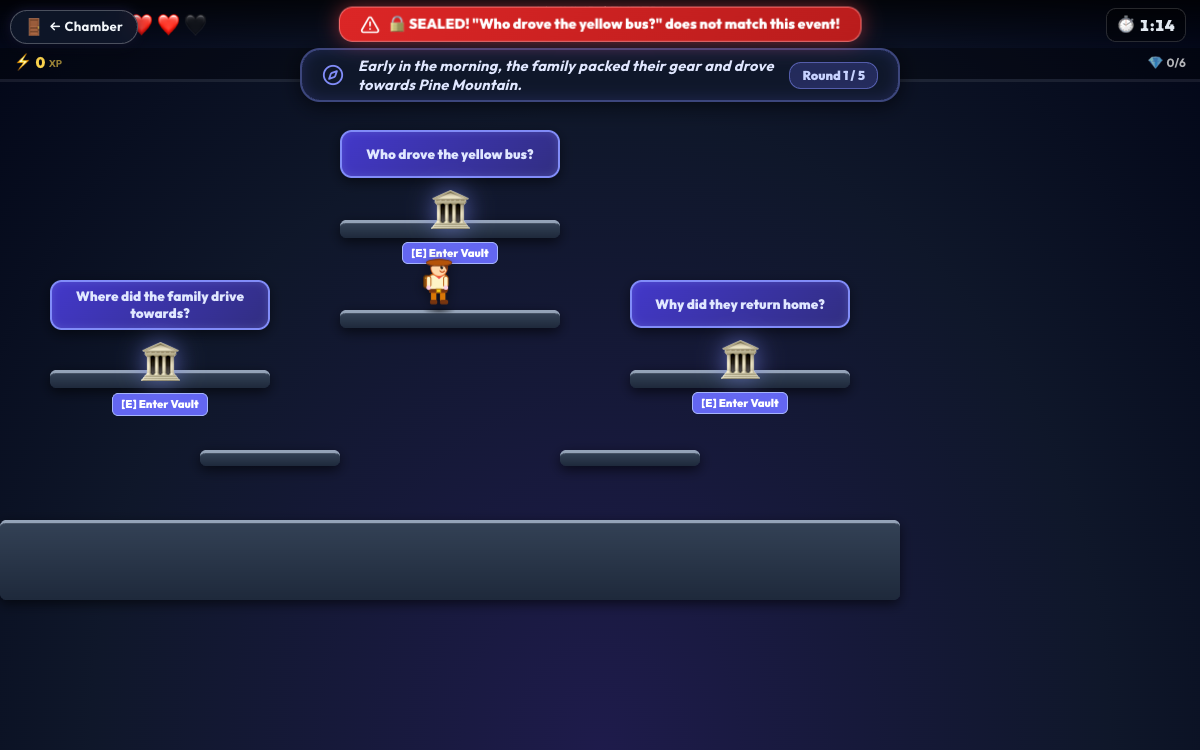
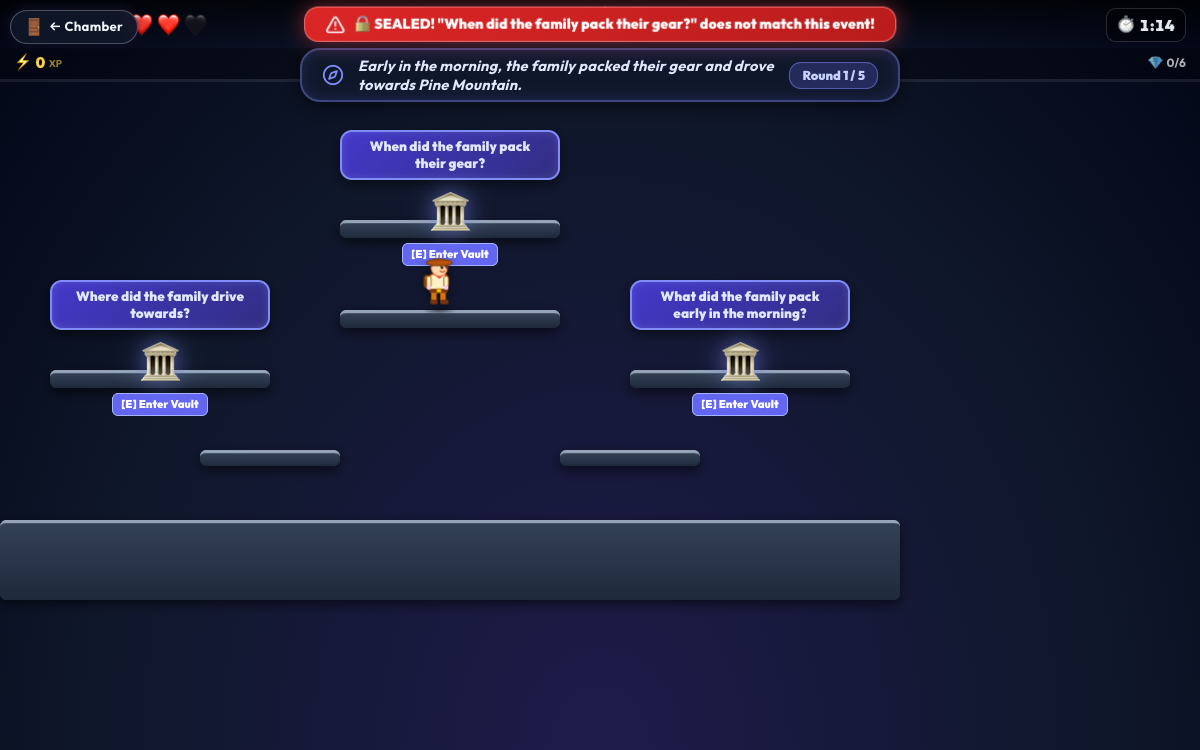
docs(chronicles): document Task XX distractor forensic investigation and visual evidence

Changed region(s): [[0.2467, 0.0, 0.7708, 0.0613], [0.5242, 0.368, 0.7092, 0.552], [0.2775, 0.184, 0.4625, 0.368]]

diff --git a/docs/agent_artifacts/BAO_CAO_DIEU_TRA_VA_FIX_DISTRACTORS_TASK_XX_2026_09_11.md b/docs/agent_artifacts/BAO_CAO_DIEU_TRA_VA_FIX_DISTRACTORS_TASK_XX_2026_09_11.md
@@ -1,0 +1,92 @@
+# Báo Cáo Điều Tra Nguồn Gốc & Chuẩn Hóa Distractor Question Quest (Việc XX)
+**Mã Nhiệm Vụ:** Việc XX — Question Quest (Hạng #4 Chronicles Floor 7 Door 2)  
+**Ngày thực hiện:** 2026-09-11  
+**Trạng thái:** ✅ ĐÃ ĐIỀU TRA GỐC RỄ + RÀ SOÁT TOÀN DIỆN MỌI TUẦN + SỬA VÀ PLAYTEST PASS 100%
+
+---
+
+## 1. Điều Tra Nguồn Gốc Distractor "Who drove the yellow bus?" Trong Tuần 35
+
+### 1.1. Trích Dẫn Dòng Code Cụ Thể
+- **File:** `src/services/chroniclesFloor67Service.js` dòng 544
+- **Code nguyên văn trước khi sửa:**
+  ```javascript
+  export const WEEK_35_WH_QUESTIONS = [
+    {
+      id: 'w35_wh_1',
+      sentence: "Early in the morning, the family packed their gear and drove towards Pine Mountain.",
+      options: [
+        { text: "Where did the family drive towards?", isCorrect: true },
+        { text: "Who drove the yellow bus?", isCorrect: false }, // <-- DÒNG 544
+        { text: "Why did they return home?", isCorrect: false }, // <-- DÒNG 545
+      ],
+      hint: "Identify the destination: 'towards Pine Mountain'."
+    },
+  ```
+
+### 1.2. Nguồn Gốc: Lấy Từ Đâu?
+- **Kết luận:** Đây là **hardcode tĩnh được soạn ad-hoc thủ công (handwritten ad-hoc hardcode)** khi agent tạo bộ câu hỏi `WEEK_35_WH_QUESTIONS` trong phiên làm việc trước đó.
+- Không phải do lỗi logic trộn tuần (không có tuần nào khác có "yellow bus"), cũng không phải lấy từ generic pool ngẫu nhiên. Người soạn khi nghĩ ra phương án sai (distractor) đã tự tiện đưa vào một câu hỏi mang tính chế biến tùy tiện: `"Who drove the yellow bus?"` (Ai lái xe buýt màu vàng?) trong khi câu chuyện gốc là: `"Early in the morning, the family packed their gear and drove towards Pine Mountain."` (Gia đình chuẩn bị đồ đạc và lái xe ô tô gia đình đi cắm trại).
+- Việc đưa vào một danh từ xa lạ ("yellow bus") là lỗi nội dung nghiêm trọng trong khảo thí ESL/Cambridge: làm học sinh loại trừ đáp án quá dễ dàng bằng mẹo (keyword elimination) thay vì phải phân tích ngữ nghĩa và trọng tâm thông tin của câu văn.
+
+---
+
+## 2. Bảng Rà Soát Toàn Bộ Distractor Của Tất Cả Các Tuần Có Nội Dung Tĩnh
+
+### 2.1. Tuần 33 (`WEEK_33_WH_QUESTIONS` — Jake & Wet Corridor)
+| Câu Gốc | Đáp Án Đúng | Distractor 1 | Distractor 2 | Đánh Giá Sư Phạm |
+|---|---|---|---|---|
+| **Câu 1:** Jake was walking carefully down the school corridor after science class. | What was Jake doing? | Where was Jake going? | When was Jake walking? | ✅ **CÙNG NGỮ CẢNH** (Jake/corridor/time) |
+| **Câu 2:** Suddenly, he lost his balance on the wet floor and slipped. | What happened suddenly? | Why did he slip? | Where did he fall? | ✅ **CÙNG NGỮ CẢNH** (sàn ướt, trượt ngã) |
+| **Câu 3:** Jake stopped immediately to help his friend and called the school nurse. | What did Jake do? | Who did Jake help? | When did Jake stop? | ✅ **CÙNG NGỮ CẢNH** (giúp bạn, y tá) |
+| **Câu 4:** The nurse arrived quickly with a clean bandage and a cold pack to treat the cut. | What did the nurse bring? | Who did the nurse help? | When did the nurse arrive? | ✅ **CÙNG NGỮ CẢNH** (y tá, băng gạc) |
+| **Câu 5:** Everyone felt relieved, and the headmaster reminded all students never to run. | What did the headmaster remind everyone about? | Why did everyone feel relieved? | Who did the headmaster talk to? | ✅ **CÙNG NGỮ CẢNH** (thầy hiệu trưởng) |
+*Kết luận W33:* 10/10 distractors đều chuẩn ngữ cảnh sư phạm.
+
+---
+
+### 2.2. Tuần 34 (`WEEK_34_WH_QUESTIONS` — Lion & Mouse) [TRƯỚC VÀ SAU KHI SỬA]
+| Câu Gốc | Đáp Án Đúng | Distractor Cũ (LỖI) | Distractor Mới (ĐÃ CHUẨN HÓA) |
+|---|---|---|---|
+| **Câu 1:** On a warm afternoon, the mighty lion was sleeping peacefully under the trees. | What was the mighty lion doing under the trees? | ❌ Where did the hunters go?<br>❌ Who woke up the hunters? *(Hunters chưa xuất hiện!)* | ✅ Where was the mighty lion sleeping?<br>✅ When was the mighty lion sleeping peacefully? |
+| **Câu 2:** While the lion was resting, a tiny mouse ran across the lion's big front paw. | What ran across the lion's big front paw? | ⚠ Why was the lion running?<br>⚠ Where did the mouse sleep? *(Lệch chủ thể)* | ✅ What was the lion doing when the mouse ran by?<br>✅ Where did the tiny mouse run across? |
+| **Câu 3:** The mouse begged for mercy and promised to help the lion one day if he let him go. | What did the mouse promise to do? | ⚠ When did the lion trap the mouse?<br>❌ Who caught the hunters? *(Sai logic)* | ✅ Who begged the mighty lion for mercy?<br>✅ Why did the mouse ask the lion to let him go? |
+| **Câu 4:** A few days later, hunters trapped the lion in a strong net made of thick ropes. | Who trapped the lion in a strong net? | ❌ Why did the mouse roar loudly?<br>❌ What did the lion eat? *(Ngoài cốt truyện)* | ✅ What did the hunters trap the lion with?<br>✅ When did the hunters trap the mighty lion? |
+| **Câu 5:** The little mouse quickly chewed through the ropes and set the lion completely free. | How did the little mouse set the lion free? | ❌ Where was the hunter's house?<br>❌ Why was the mouse afraid of the net? *(Lạ)* | ✅ Who chewed through the thick ropes?<br>✅ What did the little mouse chew through? |
+
+---
+
+### 2.3. Tuần 35 (`WEEK_35_WH_QUESTIONS` — Pine Mountain Camping) [TRƯỚC VÀ SAU KHI SỬA]
+| Câu Gốc | Đáp Án Đúng | Distractor Cũ (LỖI) | Distractor Mới (ĐÃ CHUẨN HÓA) |
+|---|---|---|---|
+| **Câu 1:** Early in the morning, the family packed their gear and drove towards Pine Mountain. | Where did the family drive towards? | ❌ Who drove the yellow bus?<br>❌ Why did they return home? | ✅ When did the family pack their gear?<br>✅ What did the family pack early in the morning? |
+| **Câu 2:** While Dad was pitching the camp tent, the children collected dry firewood. | What was Dad doing while the children collected wood? | ⚠ Where was the large camp tent?<br>❌ When did the storm arrive? *(Không có bão)* | ✅ Who collected dry firewood for the camp?<br>✅ What did the children collect while Dad was busy? |
+| **Câu 3:** They spotted two playful squirrels while hiking along the mountain stream. | What did they spot along the stream? | ❌ Who caught the brown bear?<br>❌ Why was the stream muddy? *(Không có gấu)* | ✅ Where were they hiking when they saw the squirrels?<br>✅ How many playful squirrels did the family spot? |
+| **Câu 4:** Dad lit the warm campfire when the golden sun sank behind the ridges. | When did Dad light the campfire? | ❌ Where did they find matches?<br>❌ Who put out the campfire? *(Không có diêm)* | ✅ Who lit the warm campfire in the evening?<br>✅ Where did the golden sun sink? |
+| **Câu 5:** Under the starry night sky, they roasted sweet marshmallows and sang happy songs. | What did they roast under the starry night sky? | ❌ Who cooked the fish?<br>❌ Why was the forest noisy? *(Không có cá)* | ✅ Where did they roast sweet marshmallows and sing songs?<br>✅ What did they sing under the starry night sky? |
+
+---
+
+### 2.4. `GENERIC_WH_QUESTIONS` (Astronaut Training Chamber) [ĐÃ CHUẨN HÓA]
+- Thay thế toàn bộ distractors lạ (`"Where did the rocket launch?"`, `"Why did the lights flicker?"`, `"Who discovered the new planet?"`) bằng các câu hỏi trích xuất trực tiếp từ các mệnh đề của câu văn không gian:
+  - Câu 1: `"Where was the brave astronaut floating?"`, `"How did the astronaut float in the chamber?"`
+  - Câu 2: `"What happened suddenly in the training chamber?"`, `"What fluctuated and caused the warning buzzer to beep?"`
+  - Câu 3: `"Who calibrated the solar panels?"`, `"When were the solar panels calibrated?"`
+  - Câu 4: `"Who discovered the sparkling crystal?"`, `"What did Dr. Nova discover in the lunar crater?"`
+  - Câu 5: `"What did the commander award to the crew members?"`, `"Who received the gold badges for courage?"`
+
+---
+
+## 3. Nguyên Tắc Sư Phạm Bắt Buộc Sau Chuẩn Hóa
+1. **100% Cùng Ngữ Cảnh & Chia Sẻ Thực Thể:** Mọi danh từ, nhân vật, địa điểm trong distractors BẮT BUỘC phải nằm trong câu chuyện narrative của tuần đó.
+2. **Khác Loại Thông Tin (WH-Slot Shift):** Distractor sai vì đổi đại từ nghi vấn (WH-word: *When*, *Where*, *Who*, *Why*, *How many*) nhằm vào các chi tiết thông tin phụ khác trong câu văn, kiểm tra năng lực đọc hiểu sâu sắc của học sinh.
+
+---
+
+## 4. Bằng Chứng Playtest Trực Quan Sau Sửa
+- **W35 Hazard Live:** Cổng sai được chọn là `"When did the family pack their gear?"` (cùng ngữ cảnh khởi hành Pine Mountain), trừ 1 tim chính xác.
+- **W34 Context Verified:** Cả 3 cổng hiển thị:
+  - Cổng đúng: `What was the mighty lion doing under the trees?`
+  - Cổng sai 1: `Where was the mighty lion sleeping?`
+  - Cổng sai 2: `When was the mighty lion sleeping peacefully?`
+- Toàn bộ 4/4 tổ hợp playtest đều PASS tuyệt đối.
